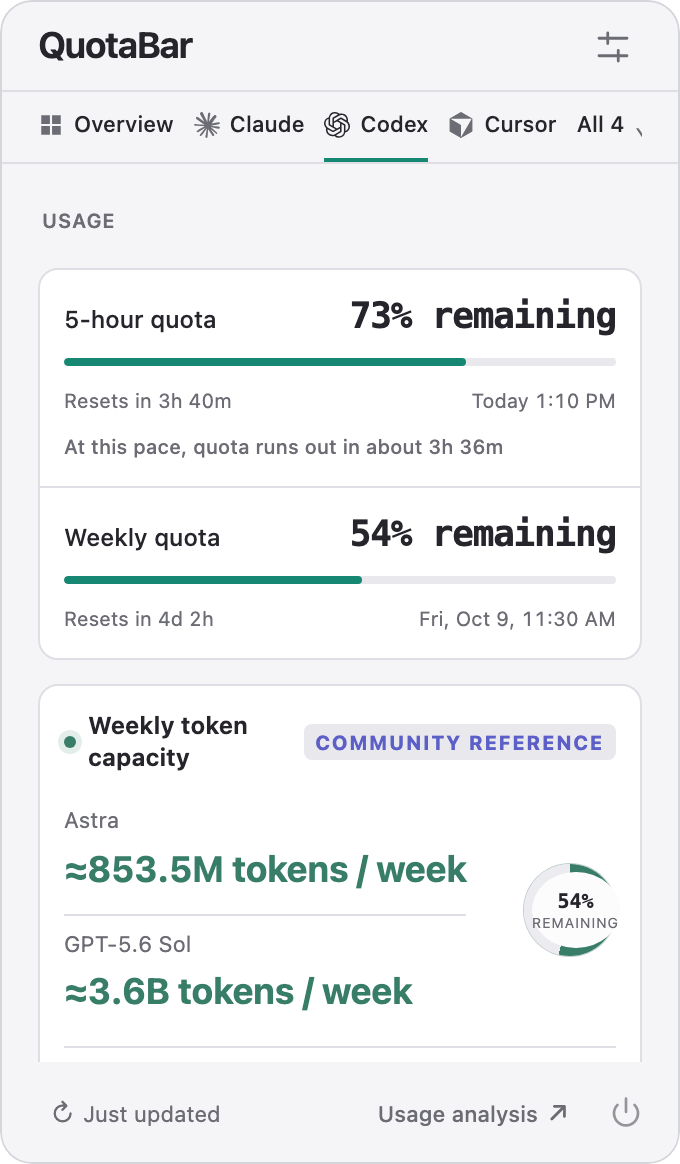
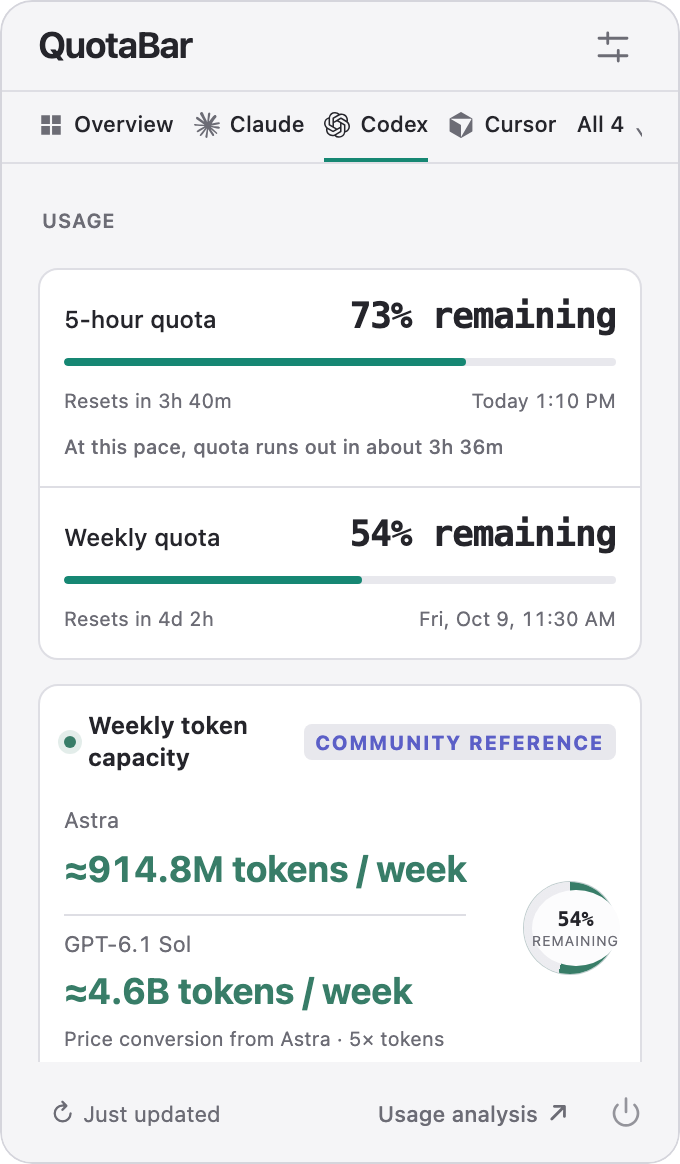
Ship QuotaBar 0.6.0 notes and GPT-6.1 Sol demo screenshots
0.6.0 is already on the manifests but has not been tagged. Fold the
post-prep tray, Windows credential, and GPT-6.1 Sol notes into that
version and refresh the README Codex screenshot so the public release
matches the shipping UI.

Constraint: GitHub latest is still v0.5.9; tagging v0.6.0 publishes this tree
Rejected: cutting 0.6.1 while 0.6.0 remains untagged
Confidence: high
Scope-risk: narrow
Tested: npm run release:check; npm test; cargo fmt --check; cargo check --locked; demo screenshot recapture
Not-tested: cargo test locally; signed GitHub Release artifacts

diff --git a/README.md b/README.md
@@ -77,7 +77,7 @@ See [product boundaries](PRODUCT.md) and [delivery status](docs/product/delivery
 
 ![QuotaBar desktop workspace overview with illustrative usage data](docs/assets/quotabar-demo-workspace-light.png)
 
-These screenshots show **illustrative data**. They were captured on 2026-10-05 from a production build of the QuotaBar `v0.5.9` React UI in Chromium, with a deterministic mock desktop backend injected by `scripts/capture_demo_screenshots.mjs`. The quota percentages, token totals, costs, projects and session titles are invented; no provider account, email, account id, token, cookie or local record was read. The mock only exists in that capture script and is not part of the app bundle. The screenshots show the interface, not native backend connectivity or signed/notarized artifacts. A dark workspace variant is in `docs/assets/quotabar-demo-workspace-dark.png`. See `docs/demo-proof.md` for the capture scope and refresh steps.
+These screenshots show **illustrative data**. They were captured on 2026-10-11 from a production build of the QuotaBar `v0.6.0` React UI in Chromium, with a deterministic mock desktop backend injected by `scripts/capture_demo_screenshots.mjs`. The quota percentages, token totals, costs, projects and session titles are invented; no provider account, email, account id, token, cookie or local record was read. The mock only exists in that capture script and is not part of the app bundle. The screenshots show the interface, not native backend connectivity or signed/notarized artifacts. A dark workspace variant is in `docs/assets/quotabar-demo-workspace-dark.png`. See `docs/demo-proof.md` for the capture scope and refresh steps.
 
 ## Quota Semantics
 

diff --git a/CHANGELOG.md b/CHANGELOG.md
@@ -4,11 +4,11 @@ All notable QuotaBar changes should be summarized here before a release is cut.
 
 ## Unreleased
 
+## 0.6.0 - 2026-10-11
+
 - Show Codex weekly token capacity as Astra and GPT-6.1 Sol. Convert Sol at the standard API input/output/cache-write price ratio (5×) in both the local and community views. Community Astra comes from the 2026-10-11 observatory snapshot (≈914.8M observed); community Sol is that same 5× conversion.
 - Hide macOS tray items retained by cycling through native visibility instead of leaving zero-width slots. Configure autosave synchronously and propagate native visibility errors; retain the disabled-item removal and saved-position behavior.
 - Read native Windows Claude Code subscription credentials from the user profile or `CLAUDE_CONFIG_DIR`, without refreshing or writing tokens. Distinguish file-read failures from expired logins and localize the recovery guidance.
-
-## 0.6.0 - 2026-10-08
 
 - Connect the published ccstats 0.11 SDK so desktop session provenance and native source read errors reach installed builds.
 

diff --git a/docs/demo-proof.md b/docs/demo-proof.md
@@ -12,7 +12,7 @@ docs/assets/quotabar-demo-workspace-dark.png        desktop workspace overview, 
 
 All are captured at device scale factor 2.
 
-The current set was captured on 2026-10-05 for QuotaBar `v0.5.9` from a
+The current set was captured on 2026-10-11 for QuotaBar `v0.6.0` from a
 production Vite build of the React UI served by `vite preview` and rendered in
 headless Chromium.
 
